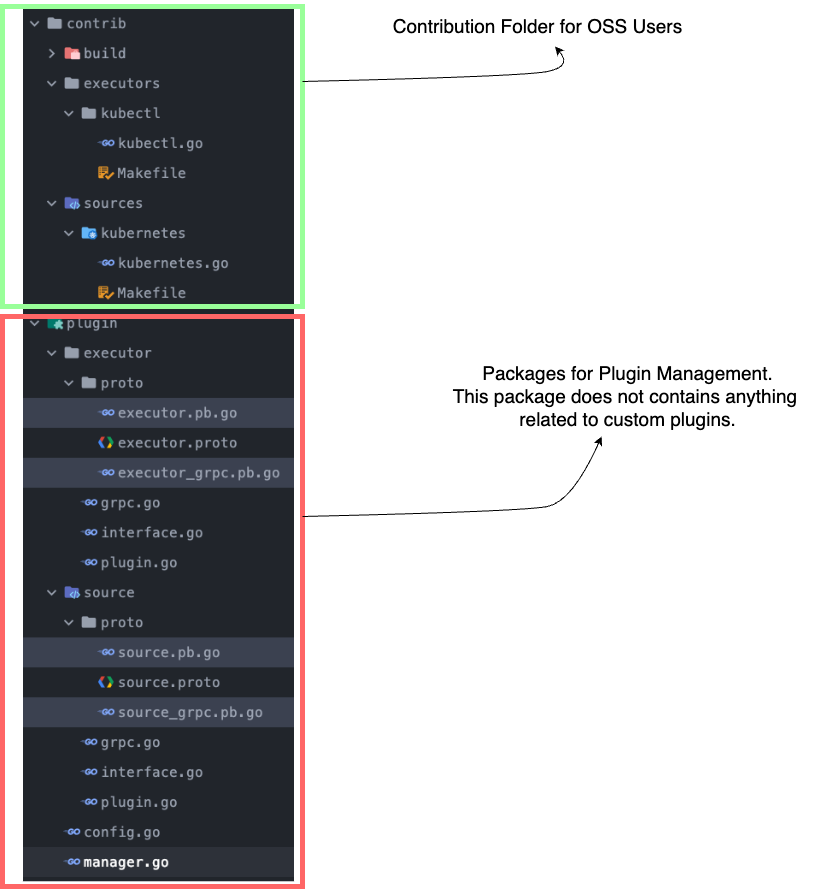
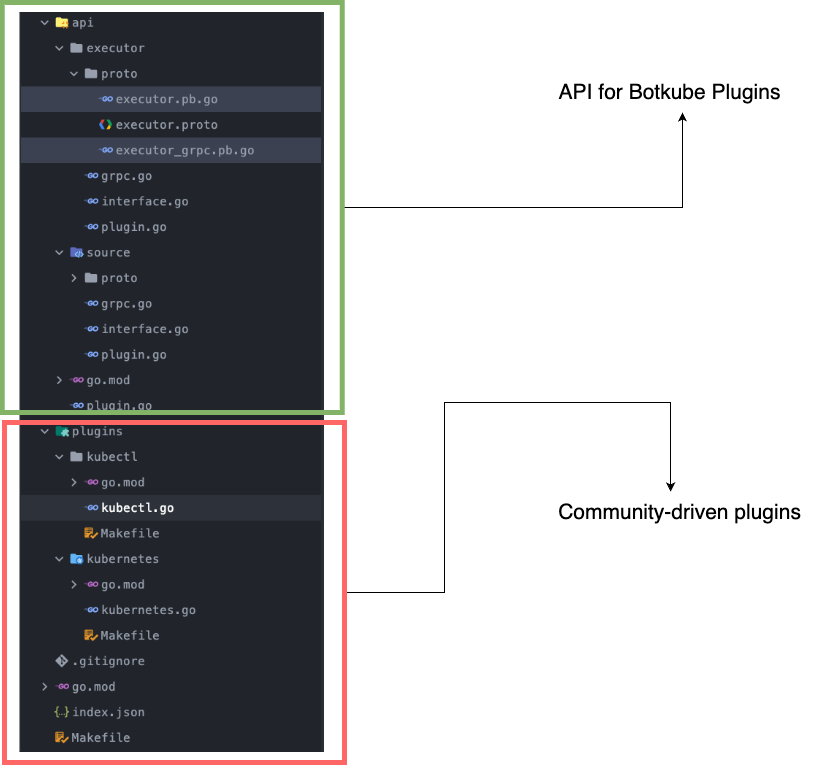
final touch

diff --git a/docs/proposal/2022-09-28-event-manager-extensibility.md b/docs/proposal/2022-09-28-event-manager-extensibility.md
@@ -1,6 +1,6 @@
 # Event Manager Extensibility
 
-Created on `2022-09-28` by Huseyin BABAL ([@huseyinbabal](https://github.com/huseyinbabal)))
+Created on `2022-09-28` by Huseyin BABAL ([@huseyinbabal](https://github.com/huseyinbabal))
 
 | Status                                   |
 |------------------------------------------|
@@ -23,18 +23,18 @@ General overview of the proposal and section with ToC
   * [Source Plugin Structure](#source-plugin-structure)
   * [Executor Plugin Structure](#executor-plugin-structure)
   * [Cloud Events](#cloud-events)
-    + [BotKube Cloudevents Data Structure](#botkube-cloudevents-data-structure)
+    + [Botkube Cloudevents Data Structure](#Botkube-cloudevents-data-structure)
 
 <!-- tocstop -->
 ## Motivation
-Currently, we have support for 5 integrations for BotKube and BotKube is designed to listen events from kubernetes
+Currently, we have support for 5 integrations for Botkube and Botkube is designed to listen events from Kubernetes
 and execute kubectl commands. In this design documentation, we aim to provide an architecture where end users can 
-extend BotKube to have their integrations with respective configurations. Even this doc is initiated to extend event 
-manager, having a general extension/plugin mechanism will bring a huge value to BotKube
+extend Botkube to have their integrations with respective configurations. Even this doc is initiated to extend event 
+manager, having a general extension/plugin mechanism will bring a huge value to Botkube
 
 ### Goal
-1. Introduce a feature for sources so that BotKube can accept events from sources other than Kubernetes.
-2. Introduce a feature for executors so that BotKube can handle custom commands via extensions.
+1. Introduce a feature for sources so that Botkube can accept events from sources other than Kubernetes.
+2. Introduce a feature for executors so that Botkube can handle custom commands via extensions.
 
 ### Non-goal
 1. Initially, we don't need to cover executor flow physically, but with a proper architecture, we can cover both events (coming from sources) executors
@@ -43,84 +43,84 @@ manager, having a general extension/plugin mechanism will bring a huge value to 
 ### Terminology
 There are already a bunch of design patterns that help you to extend your system with additional capabilities. For example,
 with proper dependency injection system, you can define an interface for the contract and implement different algorithms
-based on that. In BotKube we might have a `Source` interface, and `KubernetesSource`|`PrometheusSource` would
+based on that. In Botkube we might have a `Source` interface, and `KubernetesSource`|`PrometheusSource` would
 be good candidates for concrete implementations. with the help of Dependency Injection, you can decide on which implementation
 to call in runtime.
 
 ![](./assets/dependency-injection.png)
 
-Based on the above diagram, BotKube only knows `Source` interface, and calls `Consume()` method to execute the logic in 
-the real implementation. For example, if you register `KubernetesSource` implementation, BotKube can consume kubernetes
-events. In same way, `PrometheusSource` can consume prometheus events, or it can add an endpoint to BotKube to let Prometheus
+Based on the above diagram, Botkube only knows `Source` interface, and calls `Consume()` method to execute the logic in 
+the real implementation. For example, if you register `KubernetesSource` implementation, Botkube can consume Kubernetes
+events. In same way, `PrometheusSource` can consume Prometheus events, or it can add an endpoint to Botkube to let Prometheus
 send alerts to this endpoint. Those examples can be extended, but is there another way to add those extensions in more detached way?
 For example, instead of forcing to implement interfaces, what about we add plugins, and they are being called automatically by
-main process (BotKube in our case). By doing that, plugins and core BotKube implementation can be independent and easy to maintain.
+main process (Botkube in our case). By doing that, plugins and core Botkube implementation can be independent and easy to maintain.
 
 ### Golang and Extensibility
 Golang has [plugin](https://pkg.go.dev/plugin) package which you can use to add an extension system to your existing Go project.
 This package has some limitations as follows;
-- Once a problem occurs in plugin, it also crashes the host process (your main program, which is BotKube in our case).
+- Once a problem occurs in plugin, it also crashes the host process (your main program, which is Botkube in our case).
 - You can load the plugin during the initialization, then reload is not supported.
 - You need to maintain conflict of shared libraries.
 
 ### Hashicorp's Go Plugin
 There are several alternatives to plugin systems in Golang, but I want to focus specifically on 
 [Hashicorp's Go Plugin](https://github.com/hashicorp/go-plugin) system. In this plugin system, main application talks to 
-plugin via RPC. BotKube is a client in this case, and it calls plugin implementation via RPC and uses response returned from 
+plugin via RPC. Botkube is a client in this case, and it calls plugin implementation via RPC and uses response returned from 
 plugin. It basically uses file descriptor in local file system to communicate like a local network connection. 
 
 ![](./assets/hashicorp-go-plugin-architecture.png)
 
 ### Source Plugin Structure
 In above diagram, RPC is the base protocol and in our case it is possible to use gRPC. If we think `KubernetesSource` again, 
-BotKube can connect to `KubernetesSource` plugin and think about this is a server-side streaming. The kubernetes consuming logic is
-located in that plugin and whenever it gets an event from kubernetes, it can stream it to client which is BotKube. The main
+Botkube can connect to `KubernetesSource` plugin and think about this is a server-side streaming. The Kubernetes consuming logic is
+located in that plugin and whenever it gets an event from Kubernetes, it can stream it to client which is Botkube. The main
 advantage of this usage, we can use any language to implement a plugin which supports gRPC. 
 
-![](./assets/kubernetes-source-plugin.png)
+![](./assets/Kubernetes-source-plugin.png)
 
 Source plugin does not necessarily need to implement a logic since some sources may want to have just configuration fot the plugin in
-BotKube. Instead of source logic, they may want to send events directly to BotKube
+Botkube. Instead of source logic, they may want to send events directly to Botkube
 with a payload in [cloud events schema format](https://cloudevents.io/) which we will see soon. 
 
-Events with cloudevents format can be easily consumed by BotKube once we have the handler. However, we may need to have custom
+Events with cloudevents format can be easily consumed by Botkube once we have the handler. However, we may need to have custom
 handler like Prometheus. Prometheus has a special event format, and we can redirect that events to specific destination with 
-Prometheus job configuration. In Source Plugin architecture, it can also spin up a custom handler instead to handle prometheus 
-event payload and process it in BotKube. This is a typical example to show how we can have a dynamic handling mechanism for Source Plugins.
+Prometheus job configuration. In Source Plugin architecture, it can also spin up a custom handler instead to handle Prometheus 
+event payload and process it in Botkube. This is a typical example to show how we can have a dynamic handling mechanism for Source Plugins.
 
 To sum up source plugin system;
-- They can consume external system like kubernetes events
-- They can be in noop format, and they would have only plugin configuration to register that in BotKube
+- They can consume external system like Kubernetes events
+- They can be in noop format, and they would have only plugin configuration to register that in Botkube
 - They can also spin up an handler to handle custom events from other sources like Prometheus
 
 
 ### Executor Plugin Structure
 Executor plugins would have nearly same flow as Source Plugins with a small difference. Executor plugins would be triggered
-whenever BotKube receives a command from end-user. So, once BotKube receives command, based on the command prefix it can 
-resolve which plugin to call and uses response on gRPC execution. Think about `KubectlExecutor`, once BotKube gets `kubectl get pods`
+whenever Botkube receives a command from end-user. So, once Botkube receives command, based on the command prefix it can 
+resolve which plugin to call and uses response on gRPC execution. Think about `KubectlExecutor`, once Botkube gets `kubectl get pods`
 it can resolve plugin by its prefix which is `kubectl` and call `KubectlExecutor` gRPC endpoint automatically and parses the response.
-As you can also see, BotKube does not need to know how `kubectl` works, it simply delegates all the responsibility to specific plugin.
+As you can also see, Botkube does not need to know how `kubectl` works, it simply delegates all the responsibility to specific plugin.
 
 ![](./assets/kubectl-executor-plugin.png)
 
 ### Cloud Events
 Cloudevents schema has a proven standard for the cloud native industry where well-known products uses this schema to distribute their events
-via this contract. The main take of this, you don't need to re-invent wheel from scratch while you are designing your data format. In BotKube,
-we can also use [one of the Cloudevents SDK](https://github.com/cloudevents/sdk-go) to spin up an handler inside BotKube so that any cloudevents 
-compatible source can send data to BotKube. The main example to this is [Keptn](https://keptn.sh/), an open source application life-cycle orchestration tool, 
-they send events in cloudevents format. If we want to ship Keptn events to BotKube to be able to send notifications, we may need to add new integration to Keptn
-so that it will send events to BotKube `/events` endpoint which handles cloudevents.
+via this contract. The main take of this, you don't need to re-invent wheel from scratch while you are designing your data format. In Botkube,
+we can also use [one of the Cloudevents SDK](https://github.com/cloudevents/sdk-go) to spin up an handler inside Botkube so that any cloudevents 
+compatible source can send data to Botkube. The main example to this is [Keptn](https://keptn.sh/), an open source application life-cycle orchestration tool, 
+they send events in cloudevents format. If we want to ship Keptn events to Botkube to be able to send notifications, we may need to add new integration to Keptn
+so that it will send events to Botkube `/events` endpoint which handles cloudevents.
 
-#### BotKube Cloudevents Data Structure
-You will see very simple suggested event format for BotKube as shown below.
+#### Botkube Cloudevents Data Structure
+You will see very simple suggested event format for Botkube as shown below.
 ```json
 {
   "id" : "e2361318-e50b-472e-8b17-13dbac1daac1",   
-  "source" : "kubernetes",     
+  "source" : "Kubernetes",     
   "specversion" : "1.0",                             
   "time" : "2022-03-23T14:35:39.738Z",               
   "data" : {                                         
-    "namespace" : "botkube",
+    "namespace" : "Botkube",
     "deployment" : {
       "name" : "test",
       "replicas" : 5
@@ -132,61 +132,94 @@ You will see very simple suggested event format for BotKube as shown below.
 `id`: This is the unique identifier for the event, and this should be decided by end users. UUID is not a mandatory stuff, it can
 be also ARN for example `ec2:myinstance:12345`.
 
-`source`: This refers to plugin name. Once BotKube receives and event on `/events` endpoint, `source` field would be validated
+`source`: This refers to plugin name. Once Botkube receives and event on `/events` endpoint, `source` field would be validated
 to see we already have a registered plugin for this event or not. 
 
-`specversion`: To have proper versioning for BotKube event format.
+`specversion`: To have proper versioning for Botkube event format.
 
 `time`: Event time
 
 `data`: This is the event data that contains important information about source. what you see in `data` section is just example,
-we can also add some kind of validation in BotKube to better use received data. For example, if we force user to send key value pairs,
+we can also add some kind of validation in Botkube to better use received data. For example, if we force user to send key value pairs,
 we can easily apply templating/filtering to this event to full-fill our future stories about sending custom notifications to slack.
 Data structure is strongly opened to suggestion.
 
+As you can also understand, data field contains generic data which can vary for plugins. For internal usage, we can create a general event data structure, but
+I haven't included the final structure for that, I believe it can be generated from scratch during real implementation.
+
 ## PoC
 ### Motivation
-The main motivation of the PoC is to come up with a simple playground project that explains how it looks like to have a plugin system for BotKube.
+The main motivation of the PoC is to come up with a simple playground project that explains how it looks like to have a plugin system for Botkube.
+There are 2 projects to better show the entire flow: `Botkube-plugins` (https://github.com/huseyinbabal/Botkube-plugins) and `Botkube-plugins-playground` (https://github.com/huseyinbabal/Botkube-plugins-playground). `Botkube-plugins` repository simply contains
+community-driven plugins and also some `api` related packages to help consumers (e.g. Botkube) to initialize plugin base to use as a pluggable component.
+`Botkube-plugins-playground` is a sample project that shows how we can use `Botkube-plugins` repository as plugin marketplace. Now let's take a look `Botkube-plugins` project 
+to understand how it is structured.
 
 ### Folder Structure
 ![](./assets/plugin-system.png)
-The plugin system contains 2 packages: `contrib` and `plugin`. `contrib` package is for end users and they can come up with their own
-plugins to include them after PR approval. `plugin` package contains the logic to manage BotKube plugins. Let's deep dive those folders
+The plugin system contains 2 packages: `api` and `plugins`. `plugins` package is for end users and they can come up with their own
+plugins to include them after PR approval. `api` package contains the logic to manage Botkube plugins. Let's deep dive those folders
 to understand them a bit better.
 
-### Contrib Folder
-#### `build`: This contains plugin executables. Hashicorp's Go Plugin uses an RPC mechanism between client (BotKube), and server (Plugin),
-and server side is actually an executable. Those executables can be maintained in a separate repo, and they can be cloned to local during BotKube 
-startup process. Let's keep this in mind as an alternative plugin management notation.
+### API Folder
+This folder contains api packages to help consumers initialize plugins in client side. This package simply contains proto definitions to describe
+contract between client (Botkube) and server (Actual plugin). As you can guess, it become easier once we use gRPC since Hashicorp's plugin system works
+on RPC and the integration is so simple. 
 
-#### `executors`: This package contains executor plugins. They are just Hashicorp Go Plugins that contains a main method that serves plugin implementation.
-Plugin implementation is completely detached from BotKube system. Executor plugin has a contract `Execute(command string) (string, error)` where, BotKube
-application can send command as an input, and executor plugin can return error or successful response from execution.
+API folder contains `source` and `executor` folders to have more meaningful package names once we generate actual implementation of proto files. Apart from proto files, 
+you can see base gRPC server and client implementations in `grpc.go` which is shared among plugins. `interface.go` contains the actual API to expose to consumers. Finally,
+`plugin.go` is for plugin definition which is a simple struct for Hashicorp's Go plugin system.
 
-#### `sources`: Same as executors, and it has `Consume(ch chan interface) error` as a contract to be able to feed provided channel whenever there is an event 
-reached to source plugin system.
+### Plugins Folder
+In this folder, you can see examples `kubectl` and `Kubernetes`. Each plugin has its own dedicated folders which are typically go module projects. 
+Each plugin folder contains a simple Go file which contains the actual business logic of plugin. You can also see a `Makefile` to manage the build
+process of that plugin. They might not be a simple Go program, that's why there is no unified `Makefile` that builds any Go project, it can contain
+customer specific build flows. For `kubectl` and `Kubernetes`, they are same for now. 
 
-#### `Makefiles`: They contain the logic of building plugins.
+### How to Build Plugins?
+`plugins` folder only contains the source code of the plugins, and consumer (Botkube or playground project on our case), needs the executable versions
+of those plugin to call via Hashicorp's plugin package. There is a Github Action for plugin release flow which you can see [here](https://github.com/huseyinbabal/Botkube-plugins/blob/main/.github/workflows/release.yaml). 
+In this flow, the only thing you need to do is pushing a new tag in a format `<plugin_name>/<version>` like `Kubernetes/v1.0.7`. This will build `Kubernetes` plugin, create a release with version
+`v1.0.7` and go binary executable will be attached to release artifacts. Notice that, those artifacts are used in consumer side to be used as parameter to Hashicorp's Go Plugin.
 
-### Plugin Folder
-#### `executor/proto`: Basically, we have **executor** and **source** plugins and they have their interfaces which are `Consume` and `Execute`. Proto folder contains 
-the proto message definitions for executor plugins. In the root Makefile, you can see we generate Go code out of those messages. These means, whoever interested, they can
-contribute to generate also for other languages and they can implement a plugin in other languages!
+### How Can I Know the Metadata of Plugins?
+In `Botkube-plugins` project, we have a plugin index file as you can also see it [here](https://github.com/huseyinbabal/Botkube-plugins/blob/main/index.json). That contains basic metadata of each plugin, and notice that they are managed manually
+right now, we can automate and do find/replace whenever there is a change to plugins. Here is an example;
+```json
+[
+  {
+    "name": "Kubernetes",
+    "type": "source",
+    "description": "Kubernetes source plugin to consume events from Kubernetes Events API.",
+    "version": "v1.0.9"
+  },
+  {
+    "name": "kubectl",
+    "type": "executor",
+    "description": "Kubectl executor plugin to handle given command in configured k8s cluster.",
+    "version": "v1.0.9"
+  }
+]
+```
 
-#### `source/proto`: Same as executor, it has proto message definitions for Consume operation. The main difference between executor and source is, source plugin 
-is a server-side streaming plugin where it streams events to client which is BotKube in our case.
+`type` can be `source` or `executor` since we decide on plugin implementation contract based on that value.
 
-#### `**/grpc.go`: This contains the gRPC client/server definitions which Hashicorp Go Plugin system will use for RPC communication between BotKube and Plugin.
-#### `**/interface.go`: Interface of plugin, it contains interface methods to describe plugin.
-#### `**/plugin.go`: Contains plugin definition for Hashicorp Go Plugin system. Plugin definition contains the actual implementation behind that specific plugin.
-#### `plugin/manager.go`: This is responsible for plugin management. The scenario for manager is as follows;
-- It checks all the executables under `contrib` folder and aggregates them as list of plugin. 
-- It creates a plugin client for each plugin by using either one of the Source or Executor plugin format.
-- It registers all the plugin on initialization, and BotKube can resolve any of them on event, or command coming from platform and calls contract function which are 
-`Consume` or `Execute`.
+### How to install/uninstall plugins?
+Once you initialize plugin, it collects plugin metadatas from plugin index and initializes all of them by using Hashicorp's plugin system.
+Each plugin is downloaded to a local cache from Github artifacts. Most probably, in Botkube there will be a configuration section to decide
+enable/disable plugins. So, plugin executable is in local cache, and disable might be removing it from plugin list, so that Botkube will not initialize it on next 
+restart. we can enable disable plugins dynamically by using Hashicorp's Go plugin API, but I haven't experimented it. At worst case, we can update configuration and restart Botkube app.
+
+### How to Upgrade Plugins?
+In Botkube configuration, we will have plugin names with their versions, so if you want to upgrade a specific version, it would be enough to change it in config and restart application.
+
+### Where is the actual plugin process?
+Plugin process is managed by Hashicorp's Go Plugin and it creates a subprocess from actual Go program. So, Botkube Go process will create another process, and Hashicorp's Go Plugin
+helps us to communicate with this sub process. In Kubernetes environment, it will be in same pod. No need to worry about size, since only the required plugins will be donwloaded
+to local cache (user's home folder/.Botkube-plugins).
 
 ### Example
-You can see a working example [here](https://github.com/huseyinbabal/botkube-plugins-playground)
+You can see a working example [here](https://github.com/huseyinbabal/Botkube-plugins-playground)
 <!--
 What other approaches did you consider, and why did you rule them out? These do
 not need to be as detailed as the proposal, but should include enough
